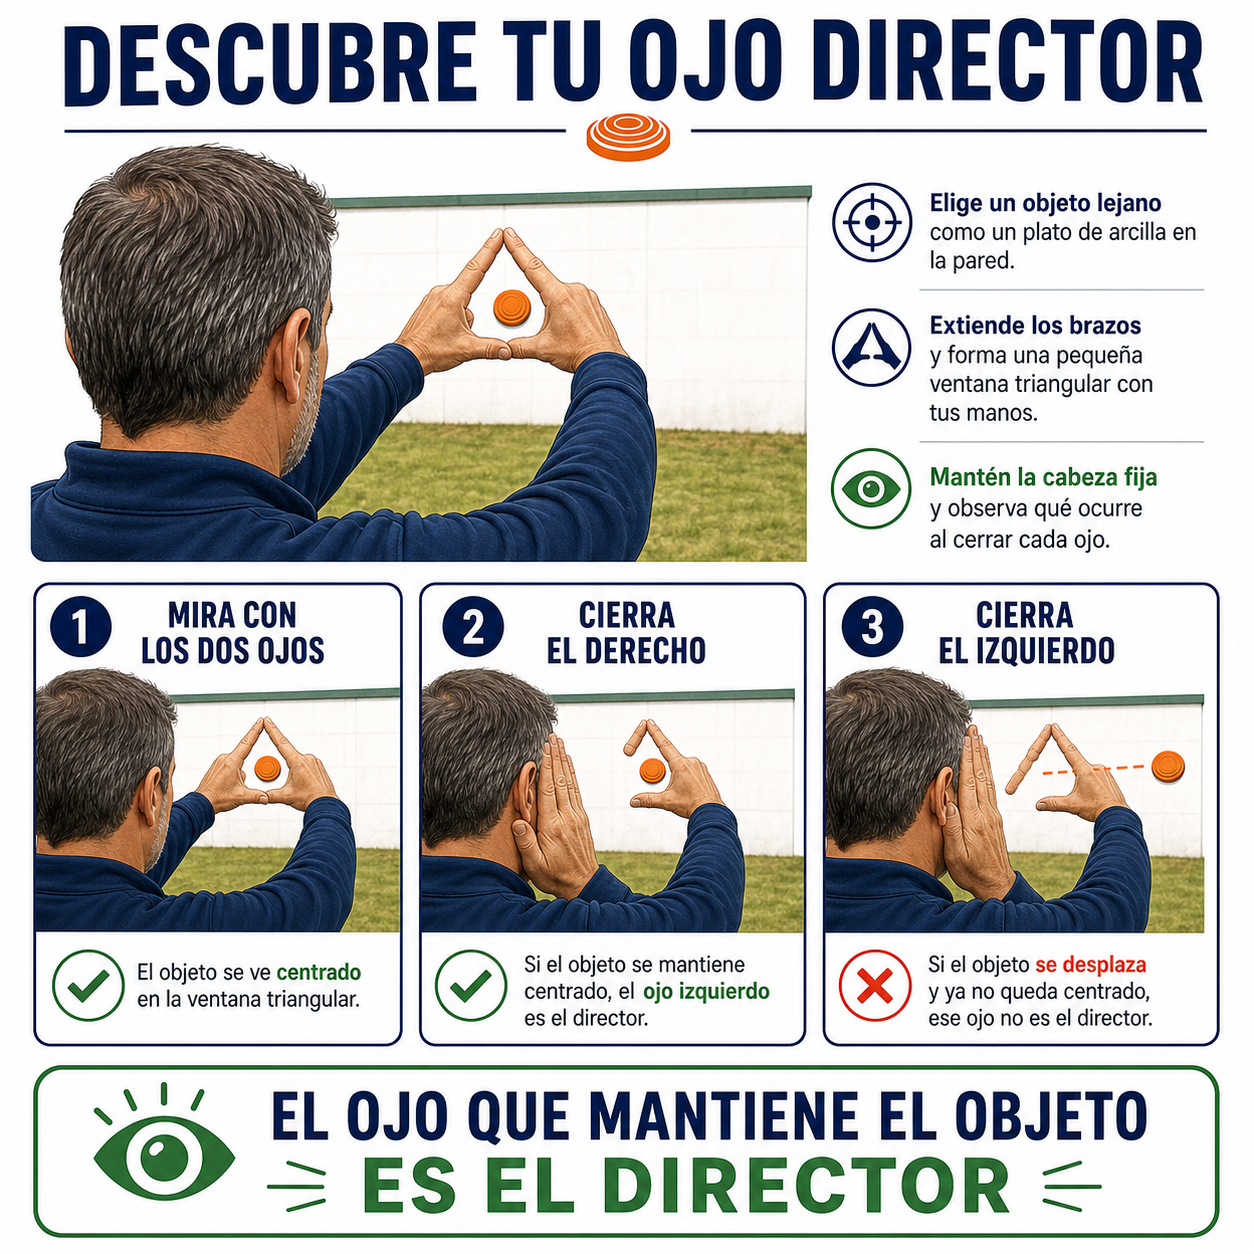
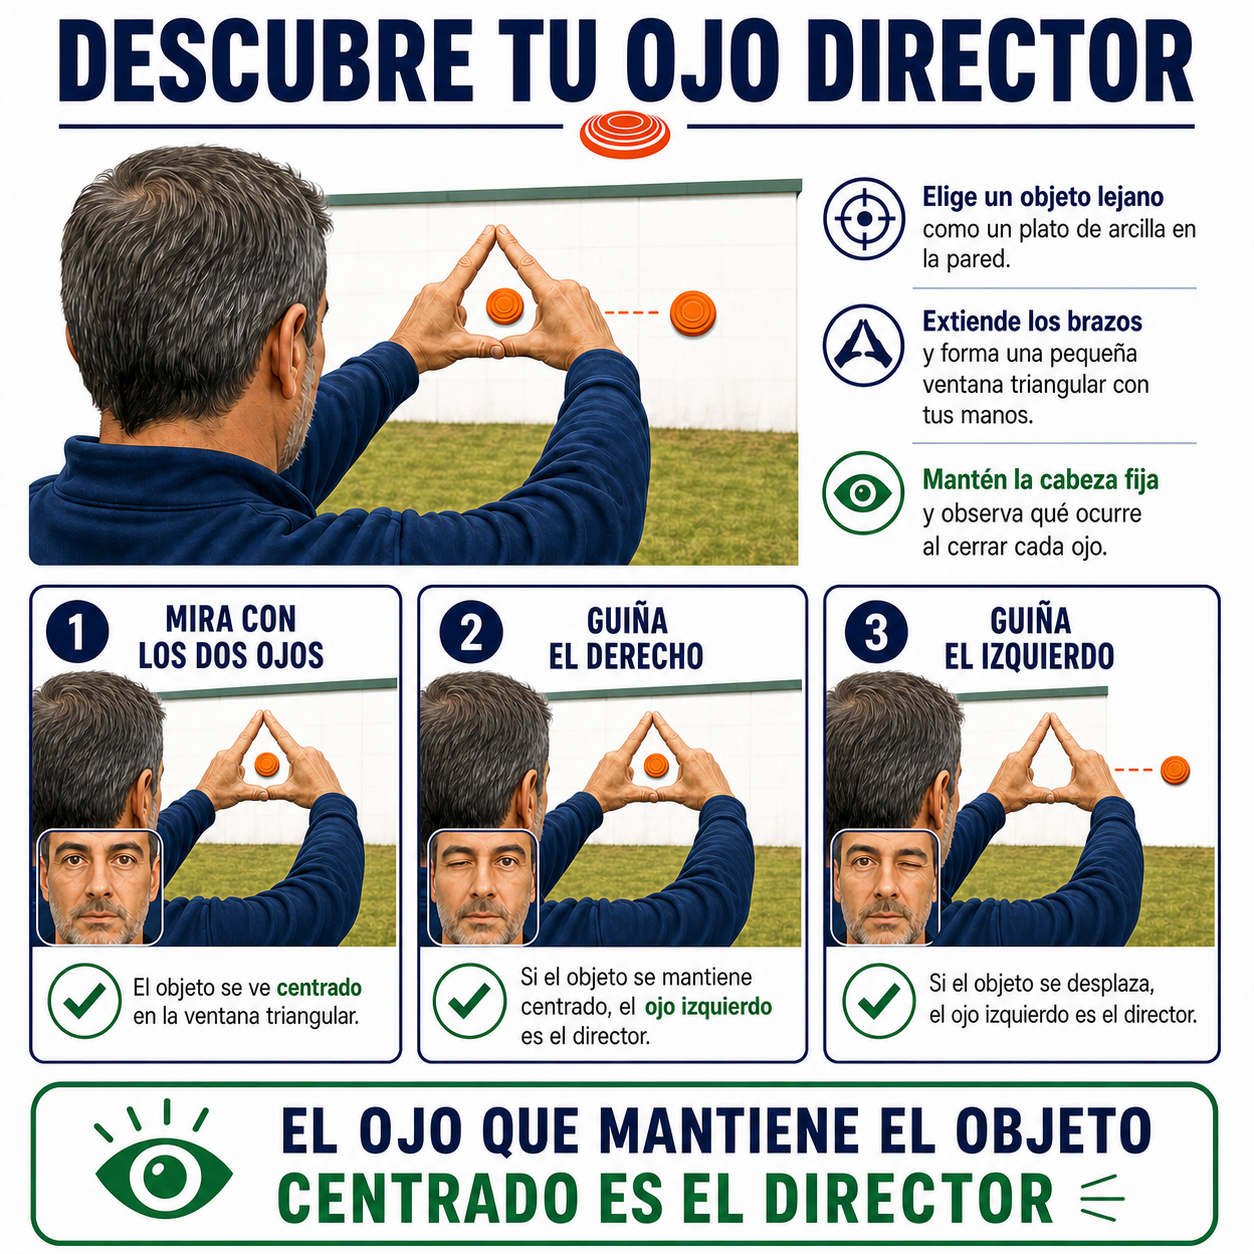
docs: corrige la prueba del ojo director

diff --git a/index.html b/index.html
@@ -1149,7 +1149,7 @@
   <p>El dolor en hombro o pómulo no es parte del aprendizaje. Puede indicar mal apoyo, una culata inadecuada, tensión o exceso de series. Si persiste, hay que parar y revisar la causa.</p>
   <aside class="personal-note"><strong>Comentario personal.</strong> En mi entorno he oído llamar «caramelo» a esa molestia o inflamación de la cara. Es una palabra de campo, no un término clínico.</aside>
   <p>La mano dominante no basta para elegir el lado ni el ajuste de la culata. También importan el hombro de apoyo y el ojo director. La prueba sencilla del ojo director se explica en <a href="#s06-10">6.10, Mirar el cañón en vez del plato</a>. Si el ojo director y el hombro de tiro no coinciden, un instructor debe valorar la postura y las posibles ayudas visuales antes de modificar el arma.</p>
-  <figure class="figure supplemental-figure"><img loading="lazy" src="docs/manual-libro/assets/images/infografias/extras/05-08-ojo-director.png" alt="Prueba sencilla del triángulo formado con las manos para identificar el ojo director" width="1254" height="1254"><figcaption>El ojo que mantiene el objeto centrado al alternar el cierre de cada ojo es el ojo director. La cabeza y las manos deben permanecer quietas.</figcaption></figure>
+  <figure class="figure supplemental-figure"><img loading="lazy" src="docs/manual-libro/assets/images/infografias/extras/05-08-ojo-director.png" alt="Prueba del ojo director: las dos manos permanecen extendidas formando un triángulo mientras se guiña primero el ojo derecho y después el izquierdo" width="1254" height="1254"><figcaption>El ojo que mantiene el objeto centrado al guiñar el otro es el ojo director. La cabeza y las manos deben permanecer quietas durante toda la prueba.</figcaption></figure>
   <figure class="figure supplemental-figure"><img loading="lazy" src="docs/manual-libro/assets/images/infografias/extras/05-08-dominancia-cruzada.png" alt="Tirador diestro con ojo director izquierdo y pequeño oclusor colocado por un instructor en la lente izquierda, sobre la línea visual de ese ojo" width="1254" height="1254"><figcaption>Si un tirador diestro tiene como director el ojo izquierdo, un instructor puede colocar un pequeño oclusor en la lente izquierda, justo sobre la línea con la que ese ojo ve el punto de mira. Así se reduce su interferencia y puede ser posible mantener ambos ojos abiertos.</figcaption></figure>
   <p>En algunos campos existe una práctica para comprobar desde delante si el ojo, la banda y el punto de mira quedan alineados. <strong>Es una maniobra intrínsecamente peligrosa porque una persona se sitúa delante de las bocas.</strong> Nunca debe improvisarse ni realizarse entre tiradores. Solo puede dirigirla un instructor competente o la persona responsable de la instalación, con la escopeta abierta y completamente descargada, las recámaras comprobadas física y visualmente y toda la munición retirada de la zona. Siempre deben preferirse alternativas más seguras que no coloquen a nadie delante de los cañones. Esta observación puede revelar una desalineación, pero no sustituye varios encares ni una prueba de plomeo.</p>
   <figure class="figure supplemental-figure"><img loading="lazy" src="docs/manual-libro/assets/images/infografias/extras/05-08-comprobacion-segura-ajuste.png" alt="Comprobación excepcional de la alineación ojo, banda y punto desde delante de una escopeta abierta y totalmente descargada, dirigida por un instructor competente y sin munición presente" width="1254" height="1254"><figcaption>Esta comprobación frontal existe como práctica de campo, pero implica que alguien esté delante de las bocas. No se improvisa: solo la dirige una persona competente, con el arma abierta y totalmente descargada, recámaras verificadas y sin munición; siempre se prefieren alternativas más seguras.</figcaption></figure>
